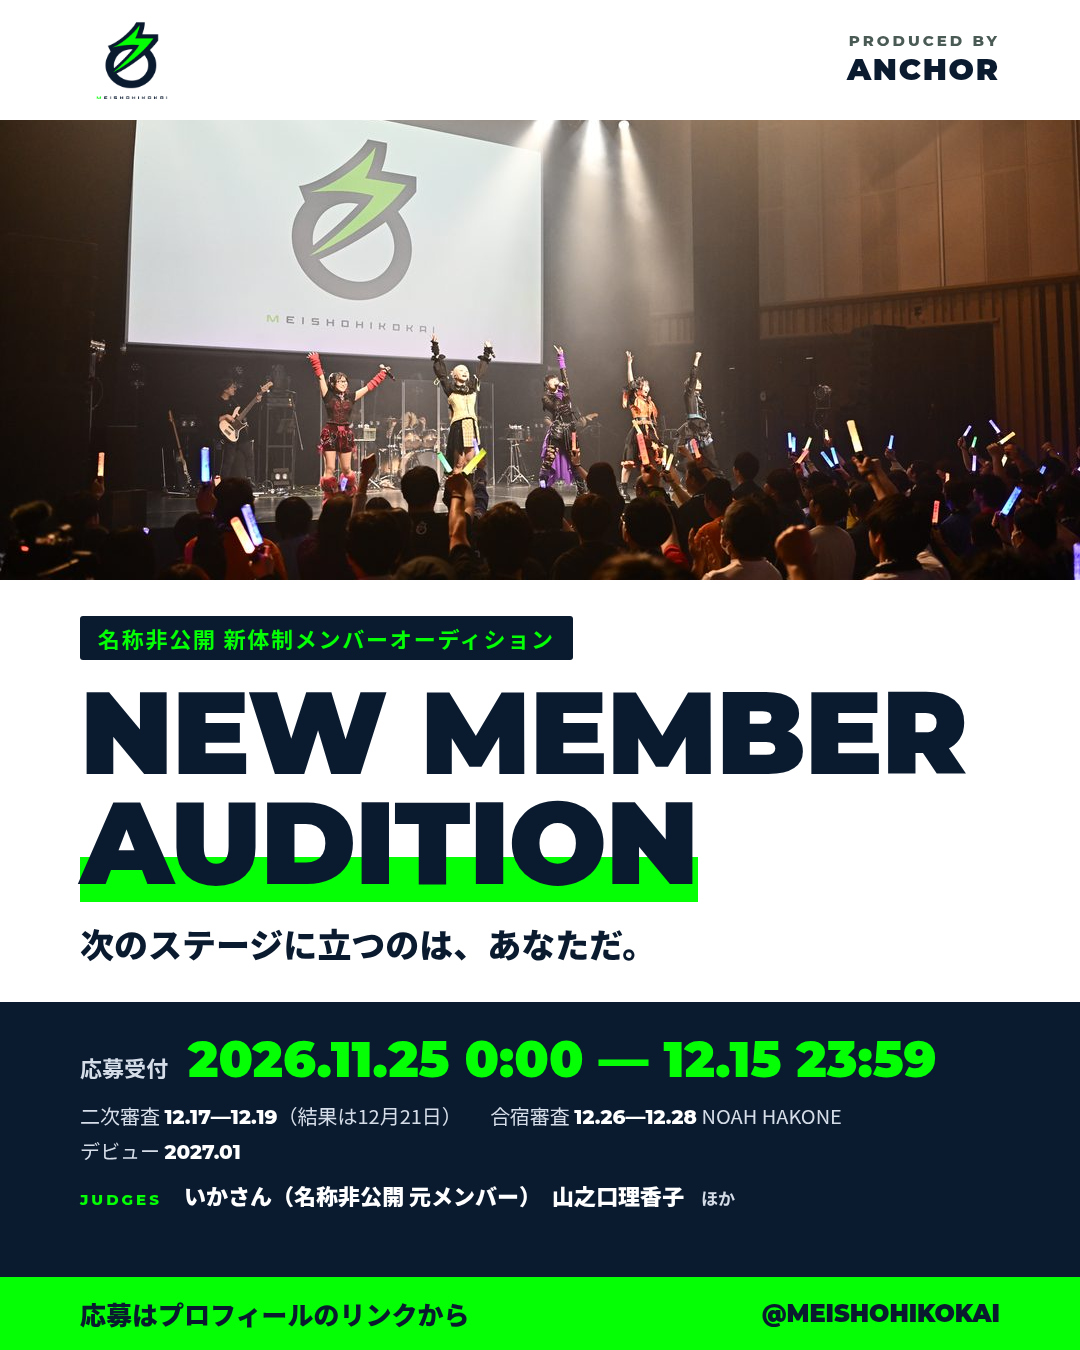
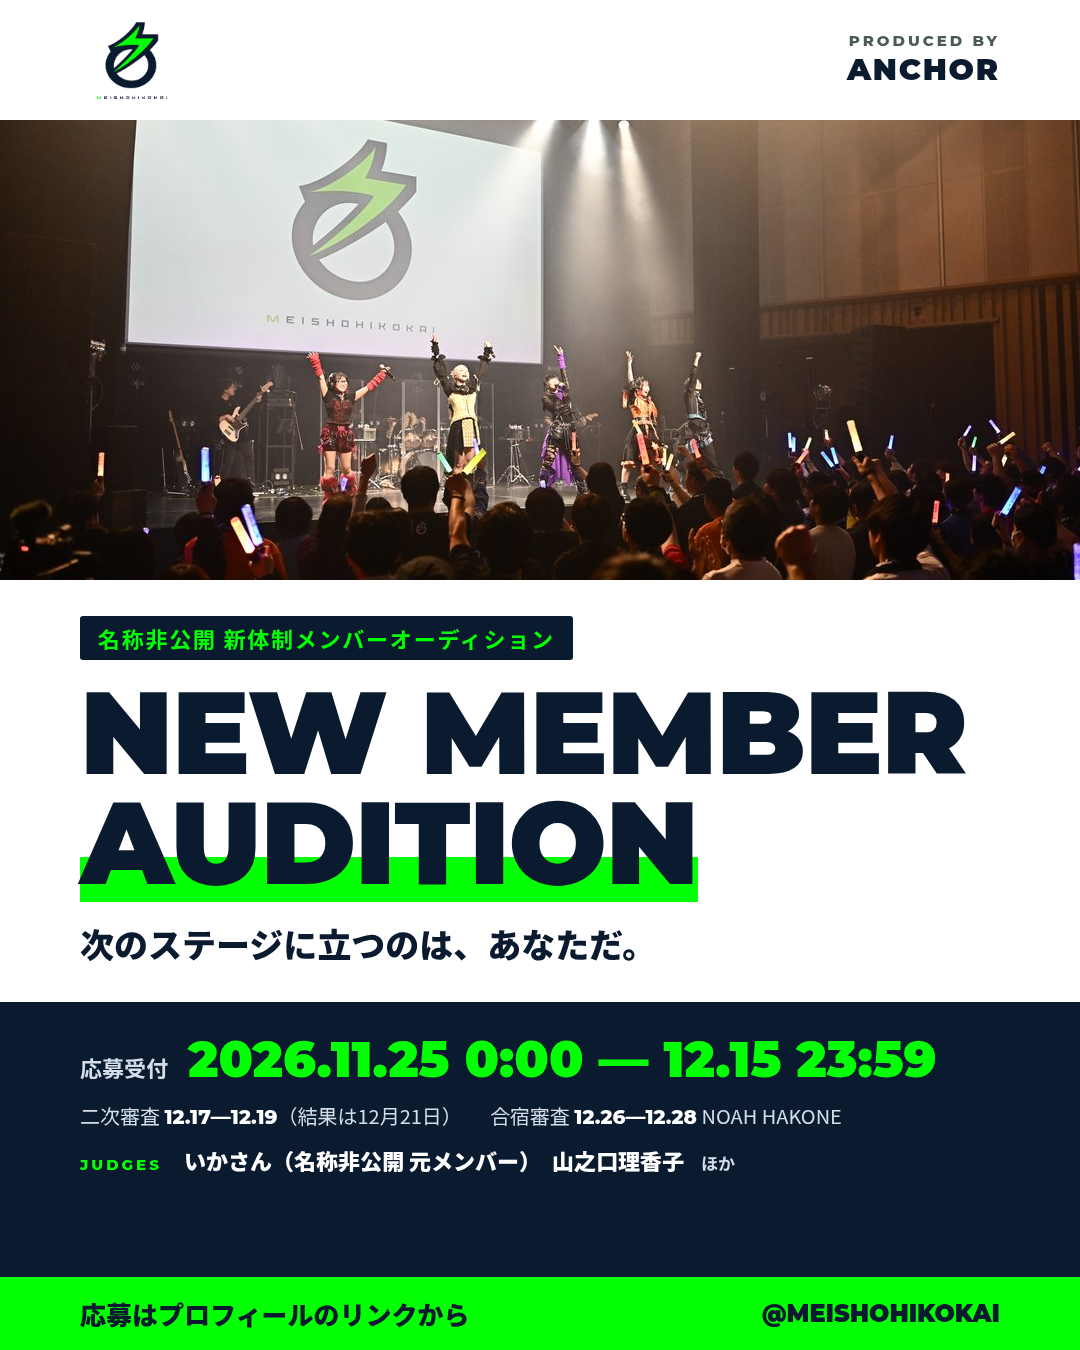
Remove the January 2027 debut line and align mobile portraits and wraps
Drop the 2027年1月 debut wording from the LP, flyer, and SNS assets while keeping mid-May start and the late-January live condition. Size ANCHOR's portrait to the same 4:5 frame as members and judges, and wrap the hero deadline and about copy on phrase boundaries at 360 and 390 pixels.

Changed region(s): [[0.0611, 0.84, 0.4889, 0.9022], [0.5194, 0.84, 0.6722, 0.9022]]

diff --git a/index.html b/index.html
@@ -5,7 +5,7 @@
 <meta name="viewport" content="width=device-width, initial-scale=1, viewport-fit=cover">
 <meta name="robots" content="noindex,nofollow">
 <title>名称非公開 新メンバーオーディション</title>
-<meta name="description" content="次のステージに立つのは、あなただ。音楽グループ「名称非公開」の新体制メンバーオーディション。応募受付は2026年11月25日(水)0:00〜12月15日(火)23:59。デビューは2027年1月。">
+<meta name="description" content="次のステージに立つのは、あなただ。音楽グループ「名称非公開」の新体制メンバーオーディション。応募受付は2026年11月25日(水)0:00〜12月15日(火)23:59。">
 <link rel="canonical" href="https://audition.meisho.tokyo/">
 <meta name="theme-color" content="#0A1A2F">
 <meta property="og:title" content="名称非公開 新メンバーオーディション">
@@ -55,7 +55,7 @@ a{color:inherit}
 a:focus-visible,summary:focus-visible{outline:2px solid var(--accent);outline-offset:3px}
 h1,h2,h3{font-family:var(--heading);line-height:1.35;text-wrap:balance;font-weight:700;word-break:normal;overflow-wrap:break-word;line-break:strict}
 p,li,dd{line-height:1.75;word-break:normal;overflow-wrap:break-word;line-break:strict}
-.wrap,.bar,.nav{width:min(1080px,100%);margin-inline:auto;padding-inline:20px}
+.wrap,.bar,.nav{width:min(1080px,100%);margin-inline:auto;padding-inline:20px;--photo-col:calc((min(1080px, 100vw) - 40px - 12px) / 2)}
 .site-header{position:sticky;top:0;z-index:30;max-width:100%;background:var(--paper);border-bottom:1px solid var(--line)}
 .bar{min-height:56px;display:flex;align-items:center;justify-content:space-between;gap:12px;min-width:0}
 .bar>*{min-width:0}
@@ -79,7 +79,7 @@ p,li,dd{line-height:1.75;word-break:normal;overflow-wrap:break-word;line-break:s
 .btn{display:inline-flex;align-items:center;justify-content:center;min-height:52px;padding:0 22px;background:var(--accent);color:var(--ink);text-decoration:none;font-weight:700;border:1px solid var(--accent)}
 .btn:active{transform:scale(.98)}.btn-ghost{margin-top:10px;background:transparent;color:var(--ink);border:1px solid var(--ink)}
 .sec{display:flow-root;position:relative;padding:56px 0;scroll-margin-top:0}
-.nowrap{white-space:nowrap}
+.nowrap{white-space:nowrap}.sp-break{display:none}@media (max-width:799px){.sp-break{display:block}}
 .sec h2{margin:0 0 22px;padding-bottom:12px;border-bottom:1px solid var(--ink);font-size:clamp(26px,7vw,36px)}
 .lead{margin:0 0 16px}
 .marquee{overflow:clip;contain:paint;width:100%;max-width:100%;background:var(--ink);color:#F4F1EA;border-bottom:1px solid rgba(135,240,53,.45)}
@@ -135,7 +135,7 @@ p,li,dd{line-height:1.75;word-break:normal;overflow-wrap:break-word;line-break:s
 .sns svg{width:18px;height:18px;display:block}
 .people{display:grid;gap:28px}
 .people article{padding-top:8px;border-top:1px solid var(--line)}
-#judges .portrait{width:calc((100% - 12px) / 2);margin:0 0 14px}
+#produce .portrait,#judges .portrait{width:var(--photo-col);margin:0 0 14px}
 #judges .portrait img{object-position:center 14%}
 
 .ink .people article{border-top-color:rgba(244,241,234,.2)}
@@ -183,8 +183,8 @@ html.has-sticky-entry{padding-bottom:var(--sticky-h,80px)}
   .marquee span{font-size:clamp(28px,4vw,48px)}
   .people{grid-template-columns:1fr 1fr 1fr;gap:22px}
   #judges .people{grid-template-columns:1fr 1fr}
-  #judges .judge-card.has-photo{display:grid;grid-template-columns:200px minmax(0,1fr);gap:8px 16px;align-items:start}
-  #judges .judge-card.has-photo .portrait{margin:0;width:auto}
+  #judges .judge-card.has-photo{grid-column:1/-1;display:grid;grid-template-columns:var(--photo-col) minmax(0,1fr);gap:8px 16px;align-items:start}
+  #judges .judge-card.has-photo .portrait{margin:0;width:var(--photo-col)}
   .sheet>div{grid-template-columns:7.5em minmax(0,1fr);gap:8px 16px}
   .sec{padding:72px 0}
 }
@@ -247,7 +247,7 @@ html.has-sticky-entry{padding-bottom:var(--sticky-h,80px)}
 <p class="eyebrow">名称非公開 新体制メンバーオーディション</p>
 <h1><span>NEW</span><span>MEMBER</span><span>AUDITION</span></h1>
 <p class="catch">次のステージに立つのは、<span class="nowrap">あなただ。</span></p>
-<p class="deadline"><span class="dl-label">応募受付</span><span class="dl-range"><span class="nowrap">2026年11月25日(水) 0:00</span><span class="dl-to">〜</span><span class="nowrap">12月15日(火) 23:59</span></span></p>
+<p class="deadline"><span class="dl-label">応募受付</span><span class="dl-range"><span class="nowrap">2026年11月25日(水) 0:00</span> <span class="nowrap">〜 12月15日(火) 23:59</span></span></p>
 <div class="hero-actions"><a class="btn" id="hero-cta" href="https://lin.ee/9cqyKYC" target="_blank" rel="noopener">応募する</a></div>
 </div>
 </section>
@@ -258,11 +258,11 @@ html.has-sticky-entry{padding-bottom:var(--sticky-h,80px)}
 <h2 class="stagger">概要</h2>
 <p class="catch stagger">泣けるライブから、心を動かす<span class="nowrap">“本物”へ。</span></p>
 <p class="lead stagger">名称非公開、第二章へ。<span class="nowrap">新たな仲間と、日本武道館を目指す。</span></p>
-<p class="lead stagger">名称非公開は、2025年9月、<span class="nowrap">ヒューリックホール東京</span>でのワンマンライブでデビューしました。翌年には<span class="nowrap">品川インターシティホール</span>で、2度目の<span class="nowrap">ホールワンマン</span>を開催。2026年夏には、TVアニメ<span class="nowrap">『ここ俺』</span><span class="nowrap">『モブせか2』</span>の<span class="nowrap">エンディングテーマ</span>を担当し、<span class="nowrap">エスコンフィールドHOKKAIDO</span>での<span class="nowrap">試合後ライブ</span>や、<wbr>インドネシアの<span class="nowrap">Anime Festival Asia</span>にも<span class="nowrap">出演しました。</span></p>
-<p class="lead stagger">第一章を経て、2027年はさらなるタイアップも決定。2028年の日本武道館公演を目標に、第二章をともに歩む仲間を迎えるため、新メンバーオーディションを開催します。</p>
+<p class="lead stagger">名称非公開は、2025年9月、<wbr><span class="nowrap">ヒューリックホール東京での</span><wbr><span class="nowrap">ワンマンライブでデビューしました。</span><span class="sp-break"></span><span class="nowrap">翌年には品川インターシティホールで、</span><wbr><span class="nowrap">2度目のホールワンマンを開催。</span><span class="sp-break"></span><span class="nowrap">2026年夏には、</span>TVアニメ<span class="nowrap">『ここ俺』</span><span class="nowrap">『モブせか2』</span>の<wbr><span class="nowrap">エンディングテーマを担当し、</span><wbr><span class="nowrap">エスコンフィールドHOKKAIDOでの</span><wbr><span class="nowrap">試合後ライブや、</span><wbr>インドネシアの<span class="nowrap">Anime Festival Asia</span>にも<span class="nowrap">出演しました。</span></p>
+<p class="lead stagger">第一章を経て、2027年はさらなる<span class="nowrap">タイアップ</span>も決定。2028年の日本武道館公演を目標に、第二章をともに歩む仲間を迎えるため、新メンバーオーディションを開催します。</p>
 <p class="lead stagger">求めているのは、“上手い人”より<span class="nowrap">“心を動かせる人”。</span></p>
 <ol class="qualities stagger">
-<li><b>01</b><strong>音楽</strong><p>名称非公開の音を、自分の声で<span class="nowrap">鳴らしたい人</span></p></li>
+<li><b>01</b><strong>音楽</strong><p>名称非公開の音を、<wbr><span class="nowrap">自分の声で鳴らしたい人</span></p></li>
 <li><b>02</b><strong>個性</strong><p>誰とも似ていない“自分”を武器にできる人</p></li>
 <li><b>03</b><strong>表現</strong><p>ステージで人の人生を揺さぶりたい人</p></li>
 </ol>
@@ -293,7 +293,7 @@ html.has-sticky-entry{padding-bottom:var(--sticky-h,80px)}
 <div><dt>募集内容</dt><dd>名称非公開の新体制を担うメンバー</dd></div>
 <div><dt>募集人数</dt><dd>4名程度<span class="note">※最終的な人数は、審査の結果により変わる場合があります。</span></dd></div>
 <div><dt>応募資格</dt><dd>年齢不問・未経験可。<span class="note">※他事務所に所属中の方は、応募後に所属先へ確認のご連絡をさせていただく場合があります。</span><span class="note">※未成年の方は保護者の同意が必要です。</span></dd></div>
-<div><dt>活動条件</dt><dd>2027年1月下旬からライブに参加できる方。開始時期はご相談ください。2027年1月にデビューし、5月中旬から本格始動します。</dd></div>
+<div><dt>活動条件</dt><dd>2027年1月下旬からライブに参加できる方。開始時期はご相談ください。5月中旬から本格始動します。</dd></div>
 <div><dt>活動環境</dt><dd>レッスン・リハーサルを実施。プロユースのスタジオでのレコーディングや、レーベルスタッフによるサポートがあります。</dd></div>
 <div><dt>所属後の待遇</dt><dd>レッスン無料。<span class="note">※チェキバックなど、そのほかの条件は合格後に書面でご案内します。</span></dd></div>
 <div><dt>活動拠点</dt><dd>東京</dd></div>
@@ -307,11 +307,10 @@ html.has-sticky-entry{padding-bottom:var(--sticky-h,80px)}
 <div class="wrap">
 <h2 class="stagger">選考スケジュール</h2>
 <ol class="stages stagger">
-<li><p class="name">応募受付</p><p class="when"><span class="nowrap">11月25日(水) 0:00</span>〜<span class="nowrap">12月15日(火) 23:59</span></p><p class="desc">先着順ではありません。</p></li>
+<li><p class="name">応募受付</p><p class="when"><span class="nowrap">11月25日(水) 0:00</span> <span class="nowrap">〜 12月15日(火) 23:59</span></p><p class="desc">先着順ではありません。</p></li>
 <li><p class="name">一次審査（書類・動画）</p><p class="when">書類・動画による審査</p><p class="result">結果は<span class="nowrap">12月15日(火)</span>までに順次ご連絡</p></li>
 <li><p class="name">二次審査（対面）</p><p class="when"><span class="nowrap">12月17日(木)〜19日(土)</span></p><p class="result">結果は<span class="nowrap">12月21日(月)。</span>日時は個別にご案内します</p></li>
 <li><p class="name">三次審査（合宿・2泊3日）</p><p class="when"><span class="nowrap">12月26日(土)〜28日(月)</span></p><p class="place"><span class="nowrap">NOAH HAKONE（箱根）</span></p><p class="desc">顔合わせ、グループ課題、最終パフォーマンス。</p></li>
-<li><p class="name">デビュー</p><p class="when">2027年1月</p></li>
 <li><p class="name">本格始動</p><p class="when">2027年5月中旬</p></li>
 </ol>
 <div class="notes-block stagger">
@@ -438,7 +437,7 @@ html.has-sticky-entry{padding-bottom:var(--sticky-h,80px)}
 <details class="q"><summary><span class="ql">Q5</span><span class="qtext">動画はスマートフォンで撮影してもいいですか？</span></summary><div class="answer"><p>問題ありません。秒数の指定はなく、縦・横、曲は自由です。過度な加工は避けてください。</p></div></details>
 <details class="q"><summary><span class="ql">Q6</span><span class="qtext">遠方のため、二次審査に行けない<span class="nowrap">かもしれません。</span></span></summary><div class="answer"><p>二次審査は12月17日(木)〜19日(土)に対面で実施します。日時は個別にご案内します。オンラインでの参加もご相談いただけます。</p></div></details>
 <details class="q"><summary><span class="ql">Q7</span><span class="qtext">合宿に参加できない<span class="nowrap">場合は？</span></span></summary><div class="answer"><p>フォームまたは公式LINEでご相談ください。</p></div></details>
-<details class="q"><summary><span class="ql">Q8</span><span class="qtext">合格したら、いつから<span class="nowrap">活動しますか？</span></span></summary><div class="answer"><p>2027年1月にデビューし、1月下旬からライブに参加いただきます。5月中旬から本格始動します。活動拠点は東京です。</p></div></details>
+<details class="q"><summary><span class="ql">Q8</span><span class="qtext">合格したら、いつから<span class="nowrap">活動しますか？</span></span></summary><div class="answer"><p>2027年1月下旬からライブに参加いただきます。5月中旬から本格始動します。活動拠点は東京です。</p></div></details>
 <details class="q"><summary><span class="ql">Q9</span><span class="qtext">お問い合わせはどこへすれば<span class="nowrap">いいですか？</span></span></summary><div class="answer"><p><a href="https://lin.ee/9cqyKYC" target="_blank" rel="noopener">公式LINEよりお問い合わせください（対応時間：平日10:00〜18:00。土日祝は翌営業日にご返信します）</a></p><p>メール：<a href="mailto:management@meisho.tokyo">management@meisho.tokyo</a></p></div></details>
 </div>
 </div>

diff --git a/sns_feed_1080x1350.html b/sns_feed_1080x1350.html
@@ -33,7 +33,7 @@ body{margin:0;background:#FFFFFF}
 
 <div style="flex: 1 1 auto; background: #0A1A2F; color: #FFFFFF; box-sizing: border-box; padding: 30px 80px 0; display: flex; flex-direction: column; gap: 14px">
 <div style="display: flex; align-items: baseline; gap: 20px"><span style="font-size: 22px; font-weight: 700; color: #D5DDE8">応募受付</span><span style="font-family: 'Montserrat', sans-serif; font-size: 50px; font-weight: 900; color: var(--accent); line-height: 1.1">2026.11.25 0:00 — 12.15 23:59</span></div>
-<div style="display: flex; flex-wrap: wrap; gap: 6px 28px; font-size: 20px; color: #D5DDE8"><span>二次審査 <b style="font-family: 'Montserrat', sans-serif; color: #FFFFFF">12.17—12.19</b>（結果は12月21日）</span><span>合宿審査 <b style="font-family: 'Montserrat', sans-serif; color: #FFFFFF">12.26—12.28</b> NOAH HAKONE</span><span>デビュー <b style="font-family: 'Montserrat', sans-serif; color: #FFFFFF">2027.01</b></span></div>
+<div style="display: flex; flex-wrap: wrap; gap: 6px 28px; font-size: 20px; color: #D5DDE8"><span>二次審査 <b style="font-family: 'Montserrat', sans-serif; color: #FFFFFF">12.17—12.19</b>（結果は12月21日）</span><span>合宿審査 <b style="font-family: 'Montserrat', sans-serif; color: #FFFFFF">12.26—12.28</b> NOAH HAKONE</span></div>
 <div style="font-size: 22px; font-weight: 900"><span style="font-family: 'Montserrat', sans-serif; font-size: 15px; font-weight: 800; letter-spacing: 0.2em; color: var(--accent)">JUDGES</span>　いかさん（名称非公開 元メンバー）　山之口理香子<span style="font-size: 17px; font-weight: 700; color: #D5DDE8">　ほか</span></div>
 <div style="margin-top: auto; margin-left: -80px; margin-right: -80px; background: var(--accent); color: #0A1A2F; padding: 18px 80px; display: flex; justify-content: space-between; align-items: center">
 <span style="font-size: 26px; font-weight: 900">応募はプロフィールのリンクから</span>

diff --git a/sns_story_1080x1920.html b/sns_story_1080x1920.html
@@ -30,7 +30,7 @@ body{margin:0;background:#FFFFFF}
 <div style="flex: 1 1 auto; background: #0A1A2F; color: #FFFFFF; box-sizing: border-box; padding: 44px 80px 0; display: flex; flex-direction: column; gap: 16px">
 <div style="font-size: 24px; font-weight: 700; color: #D5DDE8">応募受付</div>
 <div style="font-family: 'Montserrat', sans-serif; font-size: 66px; font-weight: 900; color: var(--accent); line-height: 1">11.25 0:00 — 12.15 23:59</div>
-<div style="display: flex; flex-wrap: wrap; gap: 8px 32px; font-size: 24px; color: #D5DDE8; margin-top: 6px"><span>二次審査 <b style="font-family: 'Montserrat', sans-serif; color: #FFFFFF">12.17—12.19</b>（結果は12月21日）</span><span>合宿審査 <b style="font-family: 'Montserrat', sans-serif; color: #FFFFFF">12.26—12.28</b> NOAH HAKONE</span><span>デビュー <b style="font-family: 'Montserrat', sans-serif; color: #FFFFFF">2027.01</b></span></div>
+<div style="display: flex; flex-wrap: wrap; gap: 8px 32px; font-size: 24px; color: #D5DDE8; margin-top: 6px"><span>二次審査 <b style="font-family: 'Montserrat', sans-serif; color: #FFFFFF">12.17—12.19</b>（結果は12月21日）</span><span>合宿審査 <b style="font-family: 'Montserrat', sans-serif; color: #FFFFFF">12.26—12.28</b> NOAH HAKONE</span></div>
 <div style="font-size: 26px; font-weight: 900; margin-top: 6px"><span style="font-family: 'Montserrat', sans-serif; font-size: 18px; font-weight: 800; letter-spacing: 0.2em; color: var(--accent)">JUDGES</span>　いかさん（名称非公開 元メンバー）　山之口理香子<span style="font-size: 20px; font-weight: 700; color: #D5DDE8">　ほか</span></div>
 <div style="margin-top: 14px; align-self: center; background: var(--accent); color: #0A1A2F; padding: 18px 44px; border-radius: 999px; font-size: 30px; font-weight: 900">↓ リンクから応募する</div>
 </div>

diff --git a/flyer_a4.html b/flyer_a4.html
@@ -37,7 +37,7 @@ body{margin:0;background:#FFFFFF}
 <div style="display: flex; align-items: baseline; gap: 14px; border-bottom: 1px solid #2A3D57; padding-bottom: 6px"><span style="flex: 0 0 132px; font-size: 14px; font-weight: 700; color: #D5DDE8">応募受付</span><span style="font-family: 'Montserrat', sans-serif; font-size: 24px; font-weight: 900; color: var(--accent)">11.25 0:00 — 12.15 23:59</span></div>
 <div style="display: flex; align-items: baseline; gap: 14px; border-bottom: 1px solid #2A3D57; padding-bottom: 6px"><span style="flex: 0 0 132px; font-size: 14px; font-weight: 700; color: #D5DDE8">二次審査（対面）</span><span style="font-family: 'Montserrat', sans-serif; font-size: 18px; font-weight: 800">12.17 — 12.19</span><span style="font-size: 12px; color: #D5DDE8">結果は12月21日（月）</span></div>
 <div style="display: flex; align-items: baseline; gap: 14px; border-bottom: 1px solid #2A3D57; padding-bottom: 6px"><span style="flex: 0 0 132px; font-size: 14px; font-weight: 700; color: #D5DDE8">三次審査（合宿）</span><span style="font-family: 'Montserrat', sans-serif; font-size: 18px; font-weight: 800">12.26 — 12.28</span><span style="font-size: 12px; color: #D5DDE8">NOAH HAKONE・2泊3日</span></div>
-<div style="display: flex; align-items: baseline; gap: 14px"><span style="flex: 0 0 132px; font-size: 14px; font-weight: 700; color: #D5DDE8">デビュー</span><span style="font-family: 'Montserrat', sans-serif; font-size: 18px; font-weight: 800">2027.01</span></div>
+
 </div>
 <div style="display: flex; flex-direction: column; gap: 4px">
 <div style="font-family: 'Montserrat', sans-serif; font-size: 11px; font-weight: 800; letter-spacing: 0.2em; color: var(--accent)">JUDGES</div>
